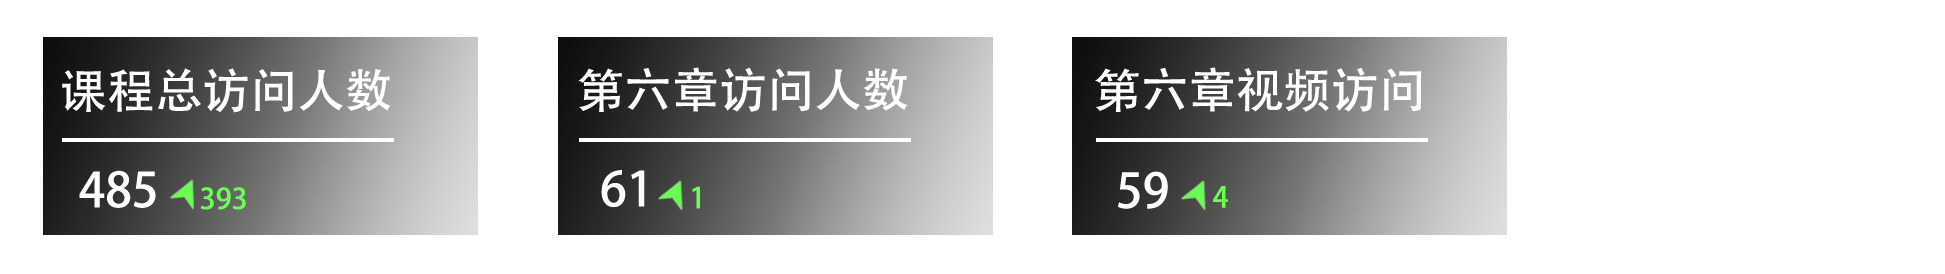
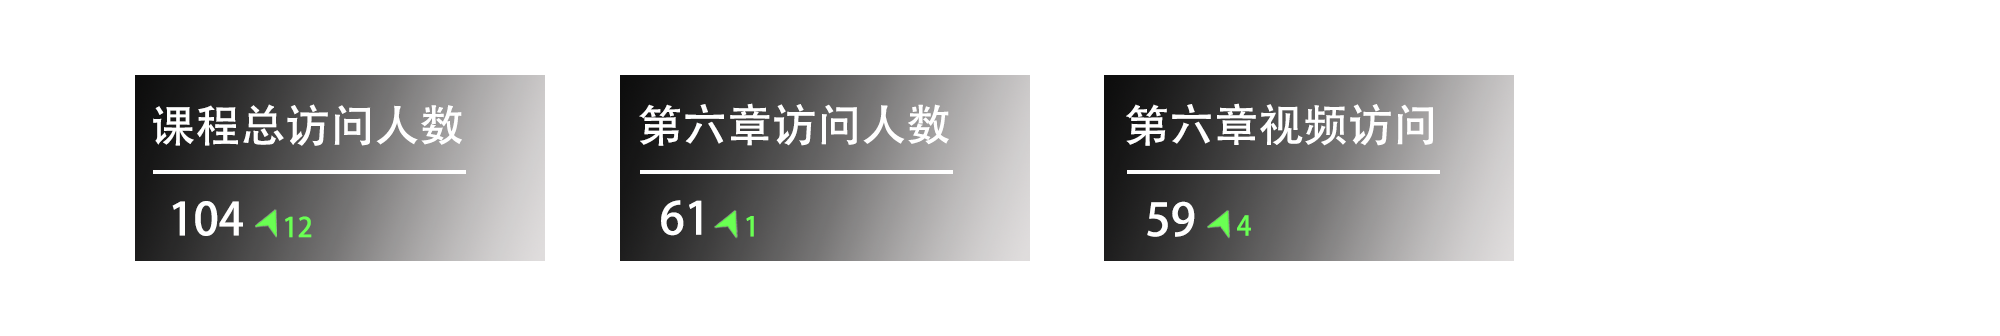
Update weekly report for Week7

diff --git a/《大数据与人工智能通识导论》周报Week7.md b/《大数据与人工智能通识导论》周报Week7.md
@@ -1,0 +1,54 @@
+《大数据与人工智能通识导论》周报 Week7
+=
+**开设学校**：湖北大学
+
+**任课教师**：杨丽
+
+**课程时间**：周一 19:00-21:35
+
+**上课人数**：104人
+
+**设课形式**：理论课采用MOOC的形式，主要以视频播放为主，配合微信群进行答疑。
+
+一、本次课程内容
+-
+
+- 基础设施 
+  - 图文课件
+  - 开篇实例
+  - 通用机器的思想
+  - 计算机系统结构
+  - 云计算与数据中心
+  - 总结
+
+二、课程形式
+-
+
+学生通过KFCoding平台的课程入口进入，结合PPT进行视频学习。
+
+![](./Images/Week7.5.png)
+
+三、数据情况
+-
+
+- **学生:**
+  1. 优化了数据筛选，现在可以正确显示课程总访问人数，总访问人数基本不会变动，推测今后的课程总访问人数不会有太大变化。
+  2. 相较于上一周，本章节的访问人数出现下降趋势，有学员没有及时参与课程。
+  3. 相交于上一周。第六张视频总访问人数减少了5人，这次与本章节访问人数持平，说明未及时参与课程内容的学生连课程单元都未进入。
+  4. 本周课程视频的单元平均观看时间与原视频时间基本持平，所有单元的课程观看时间与原视频时间基本无异。表明参与课程学习的学员都能保质保量完成学习目标。
+  5. 此平均时间数据未算上没有访问课程的用户，因此，参与视频课程的用户基本能完整看完视频。由于统计方式的特殊性，时间统计存在不可忽视的误差，但也具有指导意义。
+
+
+- **服务器:**
+  1. 大部分客户端请求仍集中在19：00以后，并且呈稳定访问趋势。且峰值降低（与人数减少相关）
+  2. 周一的运行情况看来服务器并没有出现高负载情况，系统cpu占用率并不高，用户cpu占用也没有遇到瓶颈，完全能满足上课所需。
+  3. 接下来会考虑更好的report界面呈现以及数据的展现形式，重点分析服务器性能数据。
+  4. 每个账号具体的单元停留时间数据保存于[ Week7.csv](./scripts/Week7.csv)文件中，可自行查看。
+
+![](./Images/Week7.6.png)
+![](./Images/Week7.7.png)
+![](./Images/Week7.8.png)
+![](./Images/Week7.1.png)
+![](./Images/Week7.2.png)
+![](./Images/Week7.3.png)
+![](./Images/Week7.4.png)

diff --git a/《大数据与人工智能通识导论》周报Week6.md b/《大数据与人工智能通识导论》周报Week6.md
@@ -1,4 +1,4 @@
-《` 大数据与人工智能通识导论》周报 Week6
+《大数据与人工智能通识导论》周报 Week6
 =
 **开设学校**：湖北大学
 
@@ -21,7 +21,7 @@
   - 数据的二进制表示
   - 总结
 
-二、课程形式ß
+二、课程形式
 -
 
 学生通过KFCoding平台的课程入口进入，结合PPT进行视频学习。
